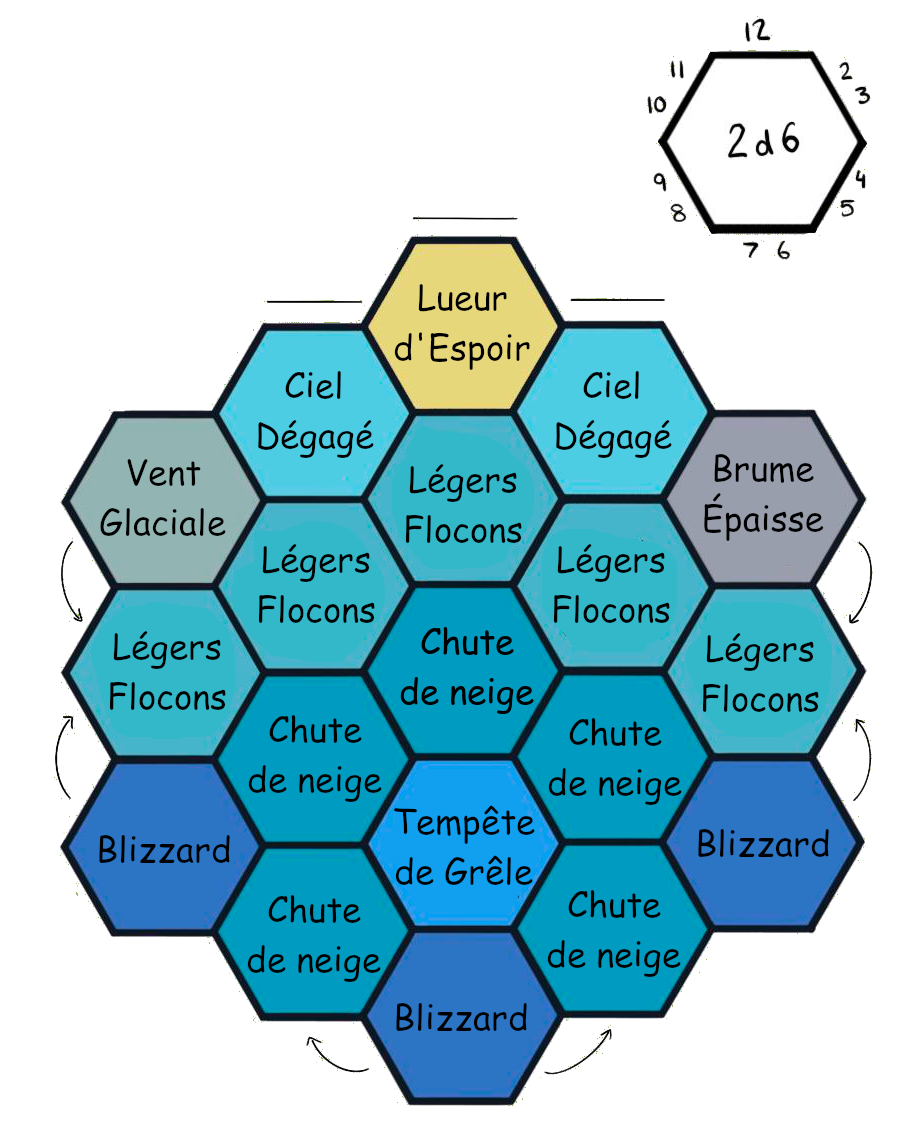
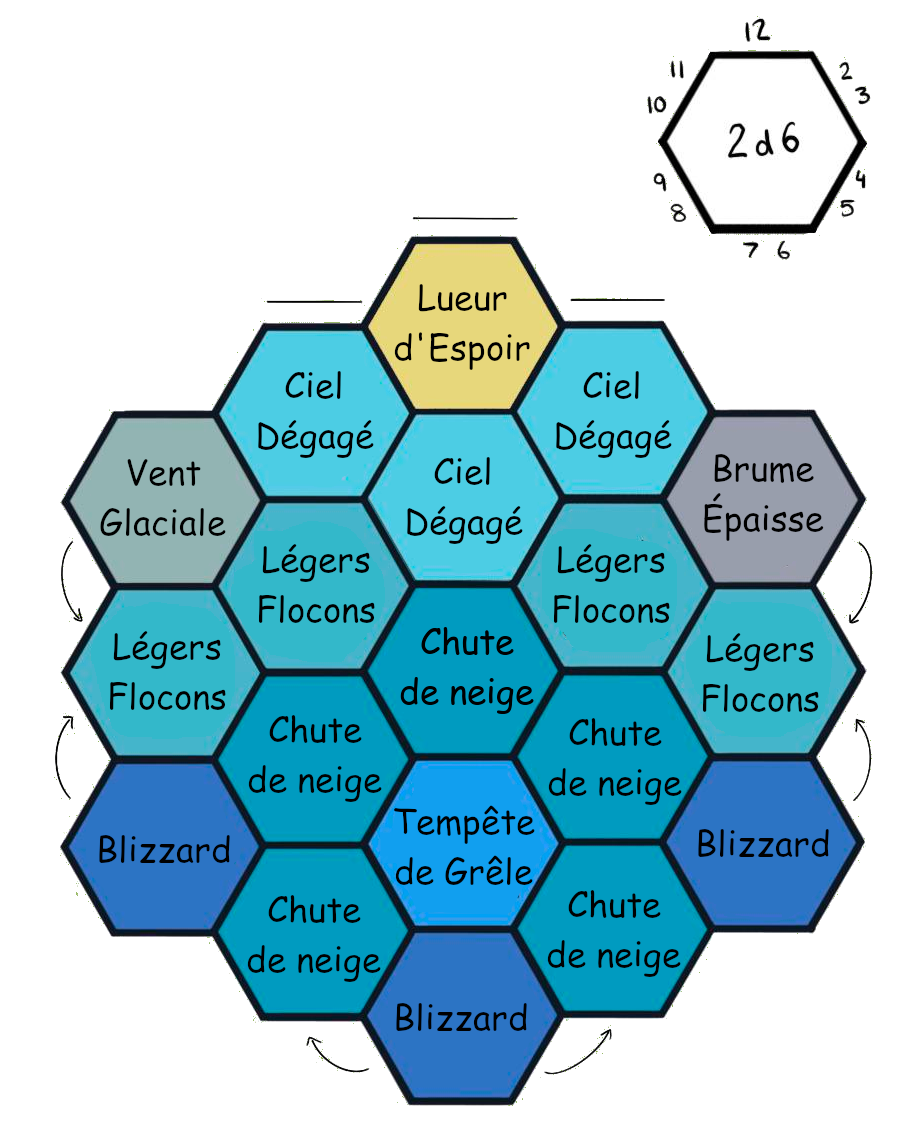
added datas in json adjusted weather chances to get "ciel dégagé"

Changed region(s): [[0.4018, 0.3371, 0.6181, 0.521]]

diff --git a/src/class_hex_flower.py b/src/class_hex_flower.py
@@ -110,115 +110,18 @@ def random_move():
 
 
 def main():
-    print("*****-- LOOP EAST 1 --******")
-    new_hex_grid = HexGrid(init_file="weather_flower.json", current_position=(2, 2))
-    print(f"Current position : {new_hex_grid.current_position}")
-    new_position = new_hex_grid.move_current_position("SE")
-    print(f"Current position : {new_position}\n")
-
-    print("*****-- LOOP EAST 2 --******")
-    new_hex_grid = HexGrid(init_file="weather_flower.json", current_position=(0, 2))
-    print(f"Current position : {new_hex_grid.current_position}")
-    new_position = new_hex_grid.move_current_position("NE")
-    print(f"Current position : {new_position}\n")
-
-    print("*****-- LOOP WEST 1 --******")
-    new_hex_grid = HexGrid(init_file="weather_flower.json", current_position=(0, -2))
-    print(f"Current position : {new_hex_grid.current_position}")
-    new_position = new_hex_grid.move_current_position("SW")
-    print(f"Current position : {new_position}\n")
-
-    print("*****-- LOOP WEST 2 --******")
-    new_hex_grid = HexGrid(init_file="weather_flower.json", current_position=(-2, -2))
-    print(f"Current position : {new_hex_grid.current_position}")
-    new_position = new_hex_grid.move_current_position("NW")
-    print(f"Current position : {new_position}\n")
-
-    print("*****-- LOOP SOUTH EAST --******")
-    new_hex_grid = HexGrid(init_file="weather_flower.json", current_position=(-2, 0))
-    print(f"Current position : {new_hex_grid.current_position}")
-    new_position = new_hex_grid.move_current_position("SE")
-    print(f"Current position : {new_position}\n")
-
-    print("*****-- LOOP SOUTH WEST --******")
-    new_hex_grid = HexGrid(init_file="weather_flower.json", current_position=(-2, 0))
-    print(f"Current position : {new_hex_grid.current_position}")
-    new_position = new_hex_grid.move_current_position("SW")
-    print(f"Current position : {new_position}\n")
-
-    print("*****-- STOP NORTH WEST --******")
-    new_hex_grid = HexGrid(init_file="weather_flower.json", current_position=(1, -1))
-    print(f"Current position : {new_hex_grid.current_position}")
-    new_position = new_hex_grid.move_current_position("N")
-    print(f"Current position : {new_position}\n")
-
-    print("*****-- STOP NORTH EAST --******")
-    new_hex_grid = HexGrid(init_file="weather_flower.json", current_position=(2, 1))
-    print(f"Current position : {new_hex_grid.current_position}")
-    new_position = new_hex_grid.move_current_position("N")
-    print(f"Current position : {new_position}\n")
-
-    print("*****-- STOP NORTH NORTH --******")
-    new_hex_grid = HexGrid(init_file="weather_flower.json", current_position=(2, 0))
-    print(f"Current position : {new_hex_grid.current_position}")
-    new_position = new_hex_grid.move_current_position("N")
-    print(f"Current position : {new_position}\n")
-
-    print("*****-- RANDOM MOVEMENTS --******")
+    print("*****-- TEST DE METEO --******")
     print(random_move())
     new_hex_grid = HexGrid(init_file="weather_flower.json")
     print(f"Current position : {new_hex_grid.current_position}\n")
-    randomx = random_move()
-    new_position = new_hex_grid.move_current_position(randomx)
-    print(f"going {randomx} so Current position : {new_position}\n")
-    randomx = random_move()
-    new_position = new_hex_grid.move_current_position(randomx)
-    print(f"going {randomx} so Current position : {new_position}\n")
-    randomx = random_move()
-    new_position = new_hex_grid.move_current_position(randomx)
-    print(f"going {randomx} so Current position : {new_position}\n")
-    randomx = random_move()
-    new_position = new_hex_grid.move_current_position(randomx)
-    print(f"going {randomx} so Current position : {new_position}\n")
-    randomx = random_move()
-    new_position = new_hex_grid.move_current_position(randomx)
-    print(f"going {randomx} so Current position : {new_position}\n")
-    randomx = random_move()
-    new_position = new_hex_grid.move_current_position(randomx)
-    print(f"going {randomx} so Current position : {new_position}\n")
-    randomx = random_move()
-    new_position = new_hex_grid.move_current_position(randomx)
-    print(f"going {randomx} so Current position : {new_position}\n")
-    randomx = random_move()
-    new_position = new_hex_grid.move_current_position(randomx)
-    print(f"going {randomx} so Current position : {new_position}\n")
-    randomx = random_move()
-    new_position = new_hex_grid.move_current_position(randomx)
-    print(f"going {randomx} so Current position : {new_position}\n")
-    randomx = random_move()
-    new_position = new_hex_grid.move_current_position(randomx)
-    print(f"going {randomx} so Current position : {new_position}\n")
-    randomx = random_move()
-    new_position = new_hex_grid.move_current_position(randomx)
-    print(f"going {randomx} so Current position : {new_position}\n")
-    randomx = random_move()
-    new_position = new_hex_grid.move_current_position(randomx)
-    print(f"going {randomx} so Current position : {new_position}\n")
-    randomx = random_move()
-    new_position = new_hex_grid.move_current_position(randomx)
-    print(f"going {randomx} so Current position : {new_position}\n")
-    randomx = random_move()
-    new_position = new_hex_grid.move_current_position(randomx)
-    print(f"going {randomx} so Current position : {new_position}\n")
-    randomx = random_move()
-    new_position = new_hex_grid.move_current_position(randomx)
-    print(f"going {randomx} so Current position : {new_position}\n")
-    randomx = random_move()
-    new_position = new_hex_grid.move_current_position(randomx)
-    print(f"going {randomx} so Current position : {new_position}\n")
-    randomx = random_move()
-    new_position = new_hex_grid.move_current_position(randomx)
-    print(f"going {randomx} so Current position : {new_position}\n")
+    question = ""
+    while question not in ("N", "n"):
+        question = input("Keep moving ? (Y/N) ")
+        randomx = random_move()
+        new_position = new_hex_grid.move_current_position(randomx)
+        print(f"Current position : {new_position}")
+        print(f"Description : {new_hex_grid.get_hex(new_hex_grid.current_position).description}\n"
+              f"Efects : {new_hex_grid.get_hex(new_hex_grid.current_position).effect}")
 
 
 if __name__ == "__main__":
